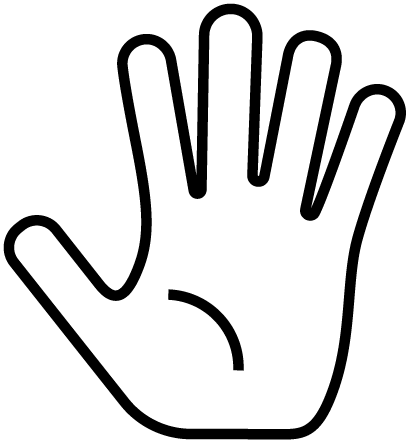
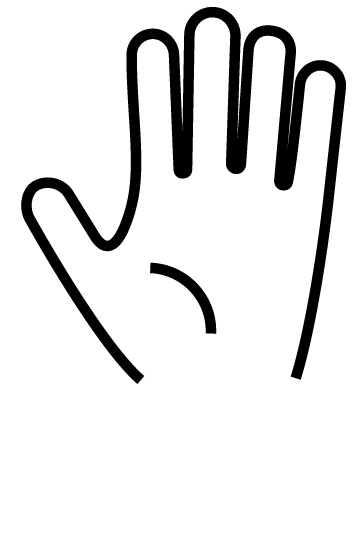
Adjusted hands and ears

Changed region(s): [[0.0, 0.0, 0.9888, 0.9977], [0.4017, 0.4695, 0.618, 0.6456]]

diff --git a/sketch.js b/sketch.js
@@ -14,8 +14,6 @@ var img;
 function preload() {
 	eye = loadImage('images/eye.png');
 	nose = loadImage('images/nose.png');
-	leftear = loadImage('images/leftear.png');
-	rightear = loadImage('images/rightear.png');
 	lefthand = loadImage('images/lefthand.png');
 	righthand = loadImage('images/righthand.png');
 }
@@ -56,19 +54,16 @@ function draw() {
 		image(eye, pose.leftEye.x, pose.leftEye.y, 100, 150);
 		image(nose, pose.nose.x, pose.nose.y, 120, 230);
 
-		image(righthand, pose.rightWrist.x, pose.rightWrist.y, 260, 260);
-		image(lefthand, pose.leftWrist.x, pose.leftWrist.y, 260, 260);
+		image(righthand, pose.rightWrist.x, pose.rightWrist.y, 200, 300);
+		image(lefthand, pose.leftWrist.x, pose.leftWrist.y, 200, 300);
 
 		imageMode(CENTER);
 
 		//fill(255, 0, 0);
 		//ellipse(pose.nose.x, pose.nose.y, d);
 		fill(0);
-		ellipse(pose.rightEar.x, pose.rightEar.y, 80);
-		ellipse(pose.leftEar.x, pose.leftEar.y, 80);
-		//image(rightear, pose.rightEar.x, pose.rightEar.y, 100, 120);
-		//image(leftear, pose.leftEar.x, pose.leftEar.y, 100, 120);
-
+		ellipse(pose.rightEar.x, pose.rightEar.y, 70);
+		ellipse(pose.leftEar.x, pose.leftEar.y, 70);
 		for (let i = 0; i < pose.keypoints.length; i++) {
 			let x = pose.keypoints[i].position.x;
 			let y = pose.keypoints[i].position.y;

diff --git a/style.css b/style.css
@@ -46,7 +46,7 @@ body {
 	width: 236px;
 	height: 75px;
 	font-style: normal;
-	font-weight: bold;
+	font-weight: 700;
 	font-size: 30px;
 	line-height: 40px;
 }
@@ -111,7 +111,7 @@ body {
 	top: 40px;
 	height: 200px;
 	width: 200px;
-	  border:12px solid black; 
+	  border:8px solid black; 
 	border-radius: 50%;
 	display: inline-block;
 }

diff --git a/index.html b/index.html
@@ -11,7 +11,7 @@
 </head>
 
 <body>
-	<script src="sk"></script>
+	<script src="sketch.js"></script>
 
 	<div class="container">
 		<div class="mirror">Mirror.</div>
